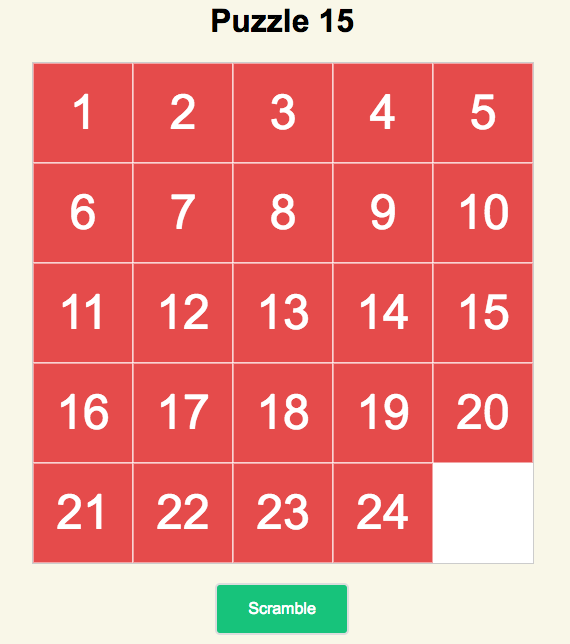
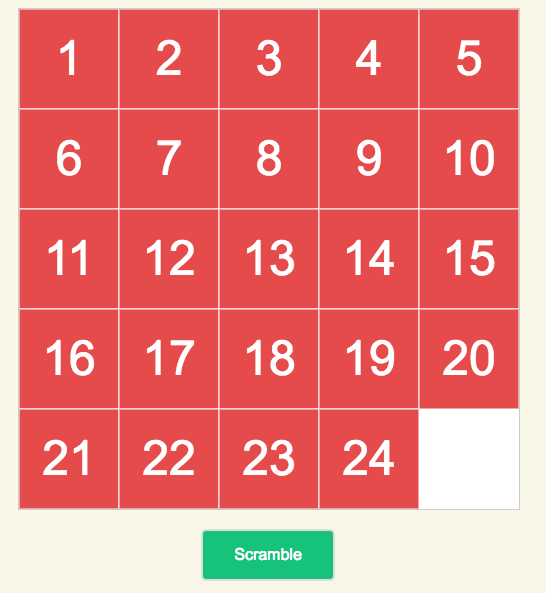
Update screenshot

Changed region(s): [[0.0311, 0.0, 0.9652, 1.0]]

diff --git a/index.html b/index.html
@@ -41,7 +41,7 @@
     </style>
   </head>
   <body>
-    <h1>Puzzle 15</h1>
+    <h1>15 Puzzle</h1>
 
     <div class="canvas-container">
       <canvas id="puzzle-board" height="500" width="500"></canvas>
